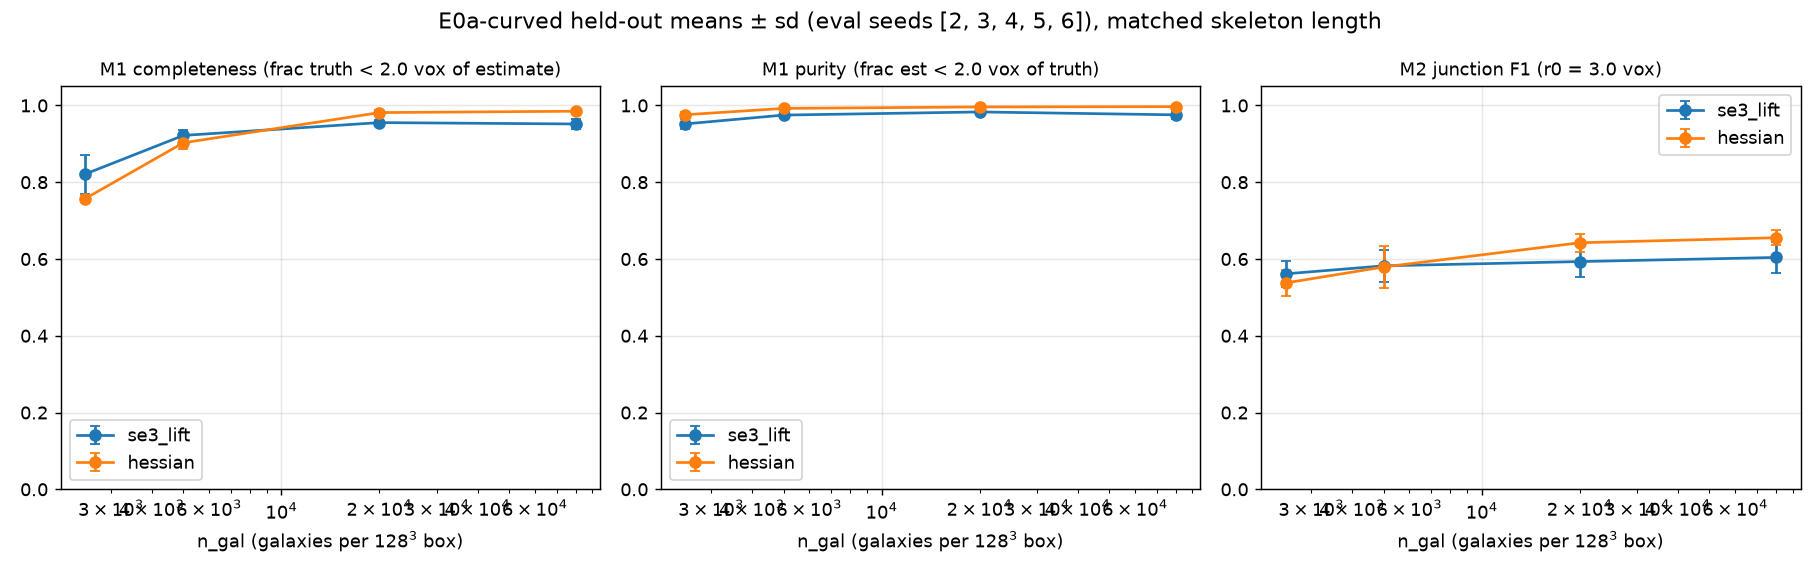
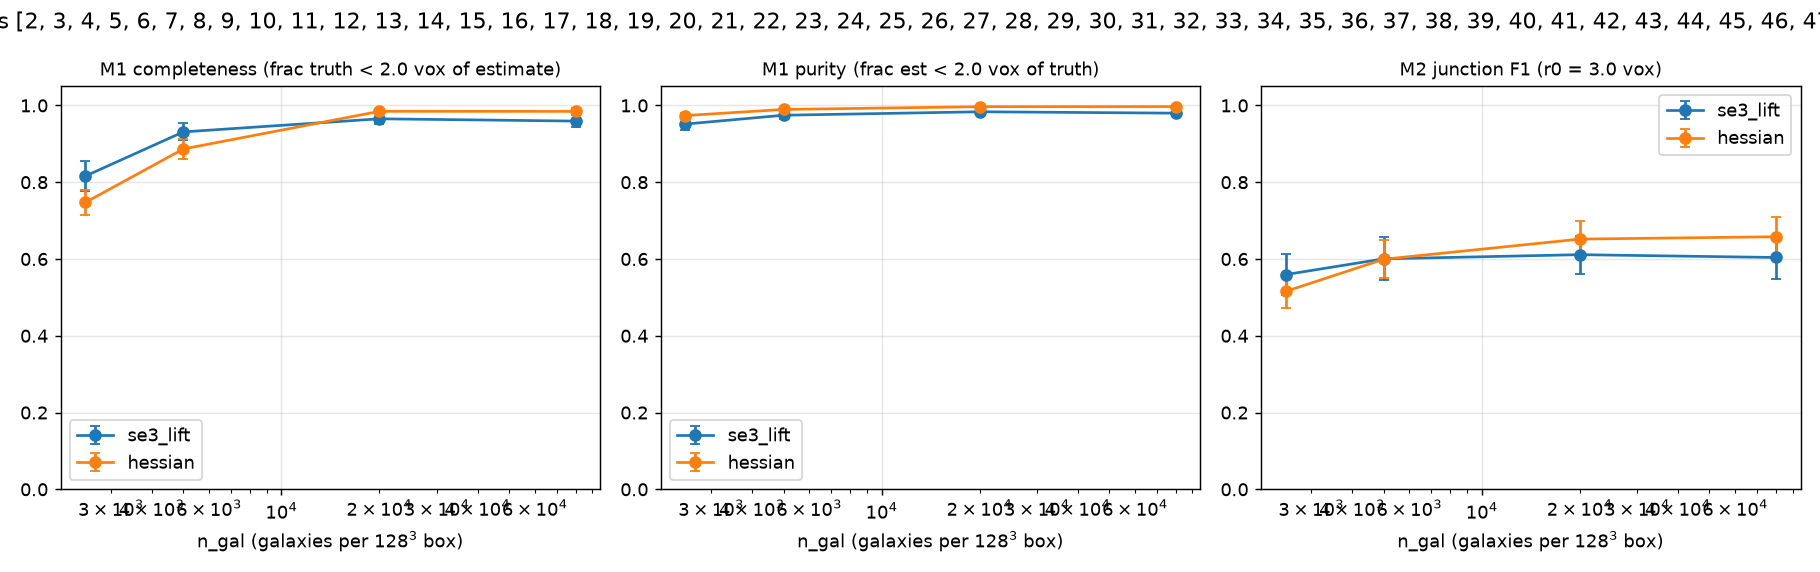
research(cosmic-web): scale E0 validation to 50 held-out seeds per variant
Parallel eval (--eval-seeds N, 8-worker pool; 200 realizations per variant
in ~150 s). Wilcoxon signed-rank on paired per-seed deltas added to the
report. Sparse-regime completeness gain confirmed at scale: +0.070
(48/50 seeds, p=6e-14) straight, +0.069 (49/50, p=1e-14) curved; dense
regime deficit -0.02 also significant. Verdict unchanged, now powered.

diff --git a/research/cosmic-web/scripts/run_e0.py b/research/cosmic-web/scripts/run_e0.py
@@ -30,6 +30,9 @@ import fields, lift, spines, metrics  # noqa: E402
 SMOKE = "--smoke" in sys.argv
 BEND = 0.15 if "--curved" in sys.argv else 0.0
 TAG = "curved" if BEND else "straight"
+N_EVAL = (int(sys.argv[sys.argv.index("--eval-seeds") + 1])
+          if "--eval-seeds" in sys.argv else 5)
+N_WORKERS = 8
 
 CFG = dict(
     N=64 if SMOKE else 128,
@@ -40,7 +43,7 @@ CFG = dict(
     bend_frac=BEND,              # 0 = straight Voronoi edges, >0 = Bezier bend
     n_gal_levels=[8000] if SMOKE else [2500, 5000, 20000, 80000],
     cal_seed=1,
-    eval_seeds=[2] if SMOKE else [2, 3, 4, 5, 6],
+    eval_seeds=[2] if SMOKE else list(range(2, 2 + N_EVAL)),
     r0_spine=2.0,
     r0_junction=3.0,
 )
@@ -109,27 +112,41 @@ def calibrate():
     return chosen
 
 
+def _init_worker(cfg):
+    CFG.clear()
+    CFG.update(cfg)
+
+
+def eval_one(args):
+    seed, n_gal, chosen = args
+    field, truth_pts, truth_j, n_target = make_realization(seed, n_gal)
+    sc = {m: evaluate(field, m, chosen[m], truth_pts, truth_j, n_target)
+          for m in ("se3_lift", "hessian")}
+    for v in sc.values():
+        v.pop("skel")
+    return {"seed": seed, "n_gal": n_gal, "scores": sc}
+
+
 def main():
+    from multiprocessing import Pool
+
     print("calibration (seed 1)")
     chosen = calibrate()
 
-    results = []
-    for seed in CFG["eval_seeds"]:
-        for n_gal in CFG["n_gal_levels"]:
-            t0 = time.time()
-            field, truth_pts, truth_j, n_target = make_realization(seed, n_gal)
-            sc = {m: evaluate(field, m, chosen[m], truth_pts, truth_j, n_target)
-                  for m in ("se3_lift", "hessian")}
-            if seed == CFG["eval_seeds"][0] and n_gal == CFG["n_gal_levels"][1]:
-                save_slice_figure(field, truth_pts, sc, seed, n_gal)
-            for v in sc.values():
-                v.pop("skel")
-            results.append({"seed": seed, "n_gal": n_gal, "scores": sc})
-            print(f"seed={seed} n_gal={n_gal:6d} "
-                  f"[{time.time()-t0:5.1f}s] " + " | ".join(
-                      f"{k}: C={v['M1']['completeness']:.2f} "
-                      f"P={v['M1']['purity']:.2f} "
-                      f"jF1={v['M2']['f1']:.2f}" for k, v in sc.items()))
+    # one serial realization for the slice figure
+    seed0, ngal0 = CFG["eval_seeds"][0], CFG["n_gal_levels"][min(1, len(CFG["n_gal_levels"]) - 1)]
+    field, truth_pts, truth_j, n_target = make_realization(seed0, ngal0)
+    sc0 = {m: evaluate(field, m, chosen[m], truth_pts, truth_j, n_target)
+           for m in ("se3_lift", "hessian")}
+    save_slice_figure(field, truth_pts, sc0, seed0, ngal0)
+
+    jobs = [(s, n, chosen) for s in CFG["eval_seeds"]
+            for n in CFG["n_gal_levels"]]
+    t0 = time.time()
+    with Pool(N_WORKERS, initializer=_init_worker, initargs=(dict(CFG),)) as pool:
+        results = pool.map(eval_one, jobs)
+    print(f"{len(jobs)} realizations on {N_WORKERS} workers "
+          f"in {time.time()-t0:.0f}s")
 
     out = ROOT / "artifacts" / f"e0_results_{TAG}.json"
     out.write_text(json.dumps({

diff --git a/research/cosmic-web/scripts/write_e0_report.py b/research/cosmic-web/scripts/write_e0_report.py
@@ -110,17 +110,21 @@ def main():
     res = straight["results"]
     levels = sorted({r["n_gal"] for r in res})
     verdict = []
+    from scipy.stats import wilcoxon
     for tag, data in [("straight", straight), ("curved", curved)]:
         if data is None:
             continue
         r = data["results"]
         d = paired_delta(r, "M1", "completeness", levels[0])
+        dd = paired_delta(r, "M1", "completeness", levels[-1])
+        p_sparse = wilcoxon(d).pvalue if len(d) > 5 else float("nan")
+        p_dense = wilcoxon(dd).pvalue if len(dd) > 5 else float("nan")
         verdict.append(
             f"- **{tag}**: at the sparsest level (n_gal={levels[0]}) the "
             f"lift wins completeness on {sum(x > 0 for x in d)}/{len(d)} "
-            f"held-out seeds, mean Δ = {np.mean(d):+.3f}; at the densest "
-            f"level Δ = "
-            f"{np.mean(paired_delta(r, 'M1', 'completeness', levels[-1])):+.3f}.")
+            f"held-out seeds, mean Δ = {np.mean(d):+.3f} (Wilcoxon "
+            f"signed-rank p = {p_sparse:.2g}); at the densest level "
+            f"Δ = {np.mean(dd):+.3f} (p = {p_dense:.2g}).")
     md.append("\n".join(verdict))
     md.append(
         "\n**Supported (partially):** the orientation lift consistently "

diff --git a/research/cosmic-web/docs/E0-report.md b/research/cosmic-web/docs/E0-report.md
@@ -22,14 +22,14 @@ Chosen configs — lift: `{'sig_par': 6.0, 'sig_perp': 1.5, 'diff_iter': 0}`, he
 
 | n_gal | method | completeness | purity | junction F1 | Δ(lift−hess) C |
 |---|---|---|---|---|---|
-| 2500 | se3_lift | 0.809 ± 0.045 | 0.954 ± 0.010 | 0.575 ± 0.030 | **+0.067** (5/5 seeds +) |
-| 2500 | hessian | 0.741 ± 0.022 | 0.977 ± 0.005 | 0.557 ± 0.067 |  |
-| 5000 | se3_lift | 0.931 ± 0.026 | 0.983 ± 0.006 | 0.595 ± 0.038 | **+0.039** (5/5 seeds +) |
-| 5000 | hessian | 0.892 ± 0.014 | 0.994 ± 0.001 | 0.620 ± 0.045 |  |
-| 20000 | se3_lift | 0.966 ± 0.008 | 0.987 ± 0.007 | 0.609 ± 0.049 | **-0.020** (0/5 seeds +) |
-| 20000 | hessian | 0.987 ± 0.004 | 0.997 ± 0.002 | 0.641 ± 0.032 |  |
-| 80000 | se3_lift | 0.958 ± 0.006 | 0.980 ± 0.007 | 0.579 ± 0.049 | **-0.029** (0/5 seeds +) |
-| 80000 | hessian | 0.987 ± 0.004 | 0.999 ± 0.002 | 0.659 ± 0.033 |  |
+| 2500 | se3_lift | 0.819 ± 0.047 | 0.957 ± 0.011 | 0.568 ± 0.051 | **+0.070** (48/50 seeds +) |
+| 2500 | hessian | 0.749 ± 0.037 | 0.975 ± 0.006 | 0.536 ± 0.060 |  |
+| 5000 | se3_lift | 0.933 ± 0.022 | 0.980 ± 0.007 | 0.610 ± 0.054 | **+0.048** (48/50 seeds +) |
+| 5000 | hessian | 0.886 ± 0.026 | 0.991 ± 0.004 | 0.612 ± 0.053 |  |
+| 20000 | se3_lift | 0.964 ± 0.013 | 0.986 ± 0.006 | 0.619 ± 0.054 | **-0.020** (1/50 seeds +) |
+| 20000 | hessian | 0.984 ± 0.008 | 0.997 ± 0.002 | 0.652 ± 0.049 |  |
+| 80000 | se3_lift | 0.960 ± 0.016 | 0.983 ± 0.006 | 0.608 ± 0.054 | **-0.024** (1/50 seeds +) |
+| 80000 | hessian | 0.984 ± 0.008 | 0.998 ± 0.002 | 0.657 ± 0.054 |  |
 
 ![E0a straight: completeness, purity, junction F1 vs galaxy count, both methods, mean ± sd over held-out seeds](figures/e0_curves_straight.png)
 
@@ -42,14 +42,14 @@ Chosen configs — lift: `{'sig_par': 6.0, 'sig_perp': 1.5, 'diff_iter': 0}`, he
 
 | n_gal | method | completeness | purity | junction F1 | Δ(lift−hess) C |
 |---|---|---|---|---|---|
-| 2500 | se3_lift | 0.821 ± 0.051 | 0.952 ± 0.013 | 0.561 ± 0.034 | **+0.064** (5/5 seeds +) |
-| 2500 | hessian | 0.757 ± 0.009 | 0.976 ± 0.007 | 0.538 ± 0.034 |  |
-| 5000 | se3_lift | 0.922 ± 0.015 | 0.975 ± 0.008 | 0.582 ± 0.042 | **+0.019** (4/5 seeds +) |
-| 5000 | hessian | 0.903 ± 0.017 | 0.992 ± 0.002 | 0.579 ± 0.055 |  |
-| 20000 | se3_lift | 0.955 ± 0.007 | 0.983 ± 0.006 | 0.593 ± 0.041 | **-0.026** (0/5 seeds +) |
-| 20000 | hessian | 0.981 ± 0.006 | 0.996 ± 0.002 | 0.642 ± 0.023 |  |
-| 80000 | se3_lift | 0.952 ± 0.012 | 0.975 ± 0.011 | 0.604 ± 0.040 | **-0.033** (0/5 seeds +) |
-| 80000 | hessian | 0.985 ± 0.005 | 0.997 ± 0.001 | 0.655 ± 0.020 |  |
+| 2500 | se3_lift | 0.816 ± 0.038 | 0.951 ± 0.015 | 0.559 ± 0.053 | **+0.069** (49/50 seeds +) |
+| 2500 | hessian | 0.747 ± 0.033 | 0.974 ± 0.007 | 0.515 ± 0.043 |  |
+| 5000 | se3_lift | 0.931 ± 0.022 | 0.974 ± 0.009 | 0.600 ± 0.056 | **+0.044** (48/50 seeds +) |
+| 5000 | hessian | 0.887 ± 0.025 | 0.990 ± 0.004 | 0.599 ± 0.050 |  |
+| 20000 | se3_lift | 0.965 ± 0.014 | 0.983 ± 0.006 | 0.611 ± 0.050 | **-0.019** (1/50 seeds +) |
+| 20000 | hessian | 0.985 ± 0.007 | 0.997 ± 0.002 | 0.652 ± 0.047 |  |
+| 80000 | se3_lift | 0.959 ± 0.015 | 0.980 ± 0.008 | 0.604 ± 0.055 | **-0.025** (0/50 seeds +) |
+| 80000 | hessian | 0.984 ± 0.008 | 0.997 ± 0.002 | 0.658 ± 0.052 |  |
 
 ![E0a curved: completeness, purity, junction F1 vs galaxy count, both methods, mean ± sd over held-out seeds](figures/e0_curves_curved.png)
 
@@ -58,8 +58,8 @@ Chosen configs — lift: `{'sig_par': 6.0, 'sig_perp': 1.5, 'diff_iter': 0}`, he
 
 ## Verdict on H1 (toy-level)
 
-- **straight**: at the sparsest level (n_gal=2500) the lift wins completeness on 5/5 held-out seeds, mean Δ = +0.067; at the densest level Δ = -0.029.
-- **curved**: at the sparsest level (n_gal=2500) the lift wins completeness on 5/5 held-out seeds, mean Δ = +0.064; at the densest level Δ = -0.033.
+- **straight**: at the sparsest level (n_gal=2500) the lift wins completeness on 48/50 held-out seeds, mean Δ = +0.070 (Wilcoxon signed-rank p = 5.9e-14); at the densest level Δ = -0.024 (p = 3.6e-15).
+- **curved**: at the sparsest level (n_gal=2500) the lift wins completeness on 49/50 held-out seeds, mean Δ = +0.069 (Wilcoxon signed-rank p = 1.2e-14); at the densest level Δ = -0.025 (p = 1.8e-15).
 
 **Supported (partially):** the orientation lift consistently improves spine completeness in the sparse-sampling regime (the survey-realistic one), at a small purity cost and matched skeleton length; the Hessian baseline is marginally better when sampling is dense. **Not supported:** (i) the junction sub-claim — M2 is statistically tied; (ii) the hypoelliptic-diffusion component — calibration rejected it (diff_iter=0 won) on BOTH straight and curved filaments, so all observed gains come from the elongated oriented filters alone.
 
